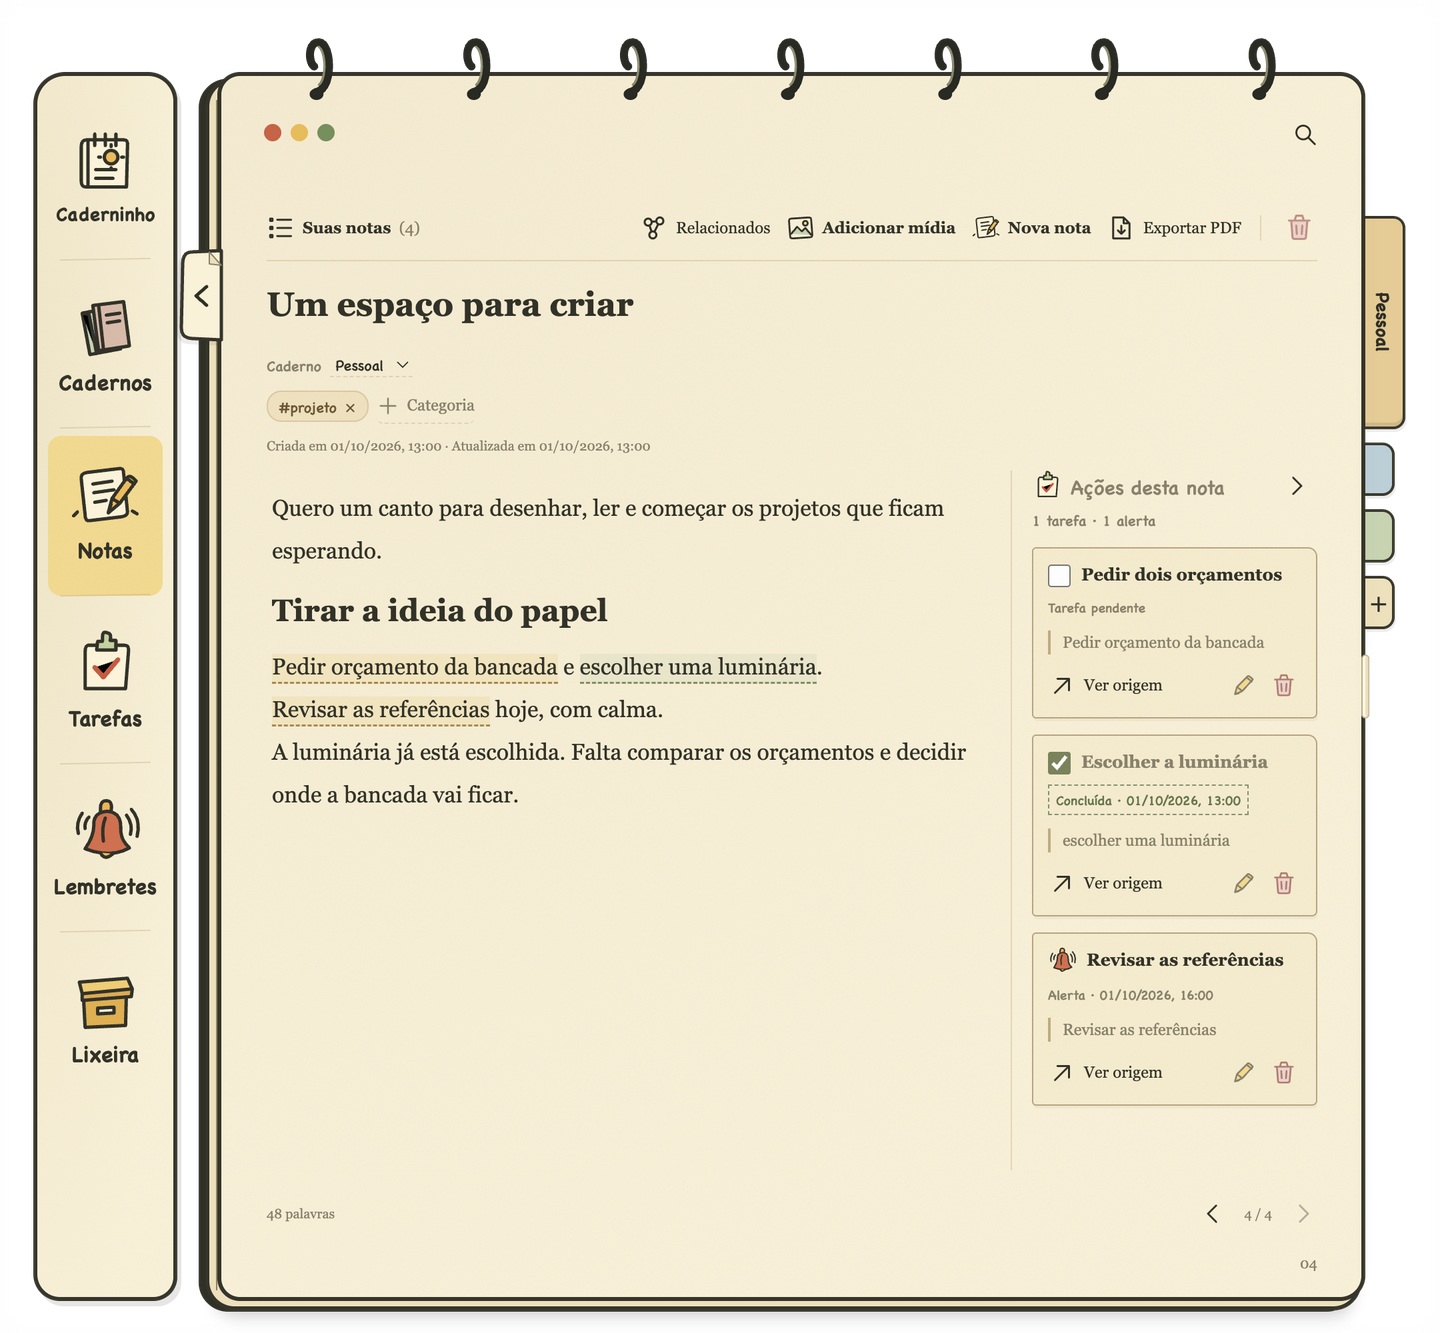
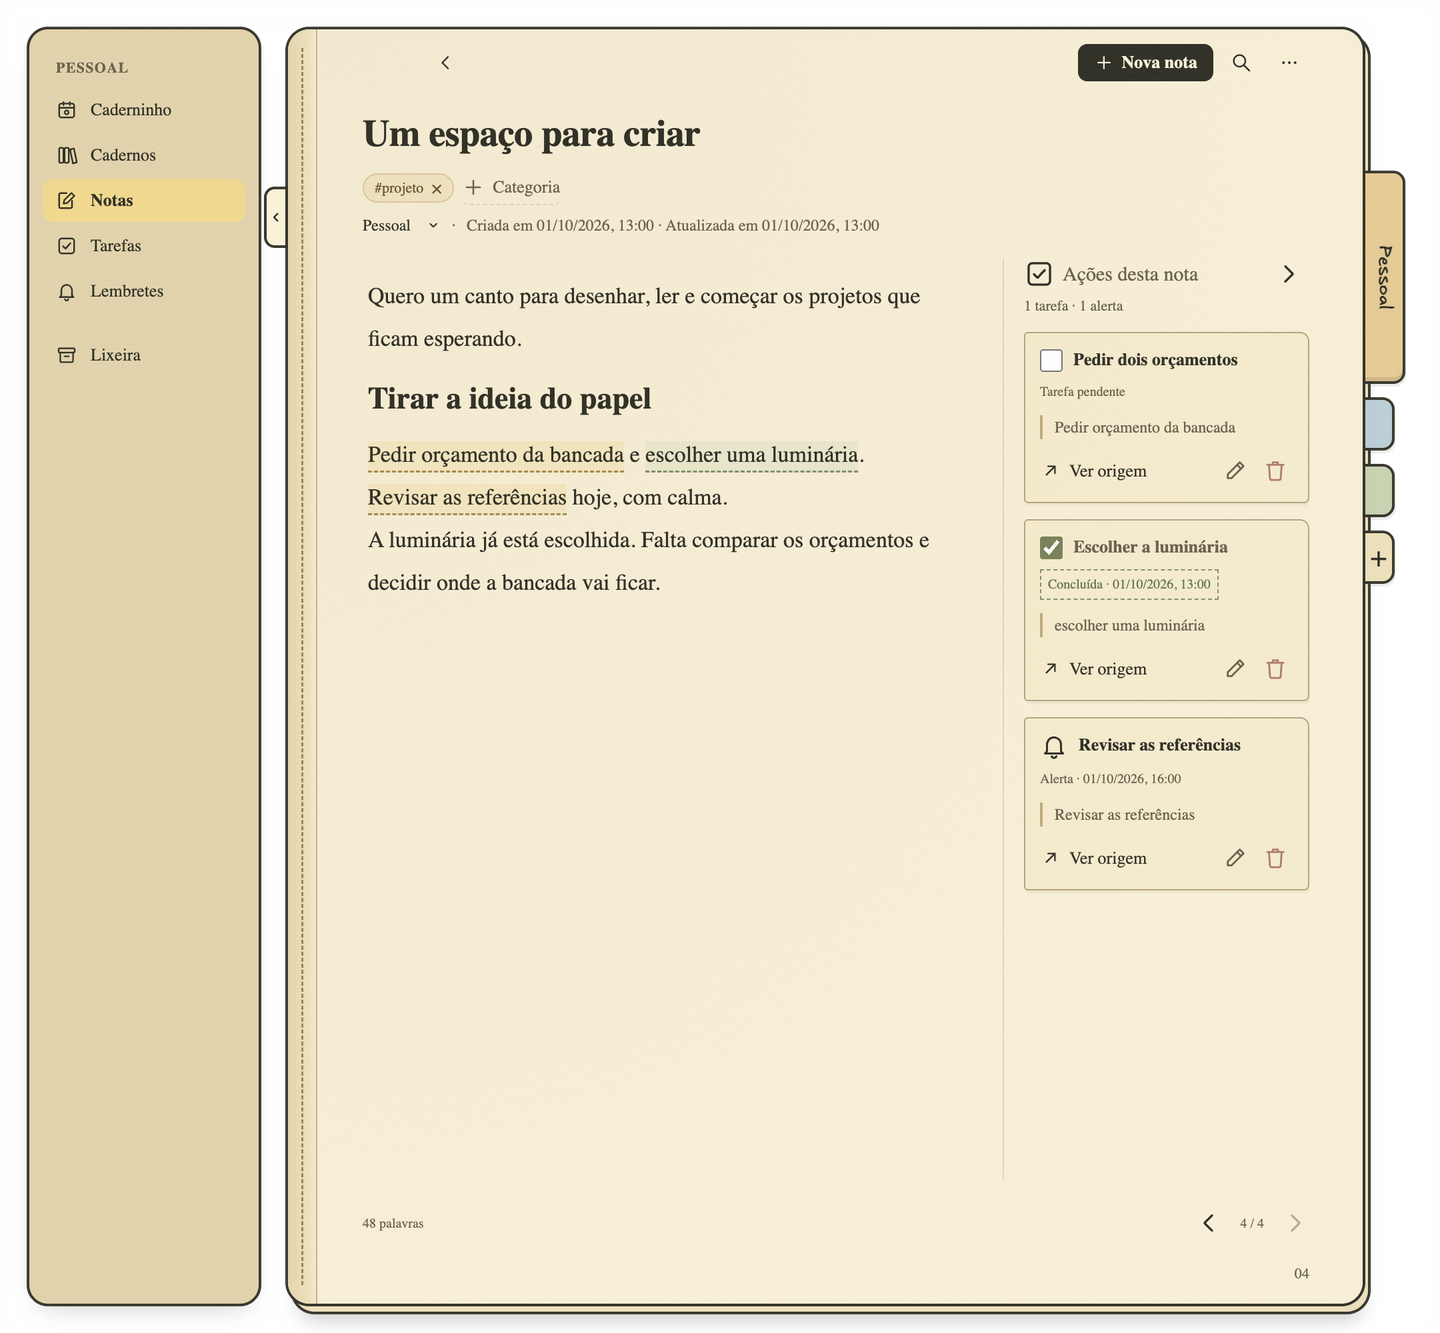
Refresh README screenshots and mark spec 003 waiting approval
The README images show the native Mac paper design, and the daily page
copy reflects that the graph appears only when the latest note has
connections. Spec 003 moves to Waiting Approve; the packaged-app check
remains open.

diff --git a/specs/003-2026-10-04-native-mac-paper-refresh.md b/specs/003-2026-10-04-native-mac-paper-refresh.md
@@ -3,7 +3,7 @@
 - **Specification ID**: 003
 - **Date**: 2026-10-04
 - **Slug**: native-mac-paper-refresh
-- **Status**: In Progress
+- **Status**: Waiting Approve
 - **Owner**: Renderer presentation shell and main-process window chrome
 - **Related Specification**: [001 — Project Structure](001-2026-10-04-project-structure.md)
 
@@ -119,30 +119,30 @@ sequenceDiagram
 
 ## User Stories
 
-- [ ] 1. As a Mac user, I want the real traffic lights in their usual place, so that closing, minimizing and zooming work like every other window.
-- [ ] 2. As a Mac user, I want the green button to toggle the notebook's full-height size, so that it behaves like the top double-click.
-- [ ] 3. As a writer, I want the page to start near the top of the window, so that I see more of my note.
-- [ ] 4. As a writer, I want the notebook to still feel like paper, so that the app keeps its identity without decorative clutter.
-- [ ] 5. As a reader, I want one consistent typeface for text and labels, so that the interface feels calm and serious.
-- [ ] 6. As a reader, I want dates written in correct Portuguese casing ("domingo, 4 de outubro"), so that the app does not look careless.
-- [ ] 7. As a user, I want the sidebar to be a compact list, so that navigation takes less room than my content.
-- [ ] 8. As a user, I want icons that share one style, so that I recognize controls without decoding three visual languages.
-- [ ] 9. As a user, I want popovers, the command palette and notices to sit visibly above the page, so that I know what is temporary.
-- [ ] 10. As a user, I want yellow to mean "selected", so that I always know where I am.
-- [ ] 11. As a user, I want "today" and "selected day" to look different on the calendar, so that I don't confuse them.
-- [ ] 12. As a user, I want one clear primary action per view, so that the toolbar doesn't make me read every button.
-- [ ] 13. As a keyboard user, I want Nova nota, Adicionar mídia, Relacionados, Exportar PDF and Mover para a lixeira in the menu bar with shortcuts, so that I don't have to reach for the page toolbar.
-- [ ] 14. As a user, I want menu items that do not apply to the current view to be disabled, so that I don't trigger actions that do nothing.
-- [ ] 15. As a user, I want the trash action to look destructive only when I aim at it, so that the toolbar doesn't feel alarming.
-- [ ] 16. As a user, I want the Página do dia note preview to use the full width, so that text doesn't wrap word by word.
-- [ ] 17. As a user, I want an empty related graph to take one line, so that it doesn't dominate the page.
-- [ ] 18. As a user, I want "1 lembrete" / "2 lembretes" pluralized correctly, so that the summary reads naturally.
-- [ ] 19. As a user, I want metadata text readable at AA contrast, so that dates and counts aren't strained to read.
-- [ ] 20. As a user, I want disabled destructive actions to be clearly disabled rather than faded pink, so that I understand why I can't use them.
-- [ ] 21. As a user, I want notices that are visible but quiet, so that confirmations don't interrupt writing.
-- [ ] 22. As a user, I want resizing from the book border to keep working, so that removing the grips doesn't remove the ability.
-- [ ] 23. As a user, I want the traffic lights to follow the book when I collapse or expand the sidebar, so that they always sit on the paper.
-- [ ] 24. As a user who prefers reduced motion, I want the refreshed hover and sidebar transitions to respect that setting, so that the interface stays still.
+- [x] 1. As a Mac user, I want the real traffic lights in their usual place, so that closing, minimizing and zooming work like every other window.
+- [x] 2. As a Mac user, I want the green button to toggle the notebook's full-height size, so that it behaves like the top double-click.
+- [x] 3. As a writer, I want the page to start near the top of the window, so that I see more of my note.
+- [x] 4. As a writer, I want the notebook to still feel like paper, so that the app keeps its identity without decorative clutter.
+- [x] 5. As a reader, I want one consistent typeface for text and labels, so that the interface feels calm and serious.
+- [x] 6. As a reader, I want dates written in correct Portuguese casing ("domingo, 4 de outubro"), so that the app does not look careless.
+- [x] 7. As a user, I want the sidebar to be a compact list, so that navigation takes less room than my content.
+- [x] 8. As a user, I want icons that share one style, so that I recognize controls without decoding three visual languages.
+- [x] 9. As a user, I want popovers, the command palette and notices to sit visibly above the page, so that I know what is temporary.
+- [x] 10. As a user, I want yellow to mean "selected", so that I always know where I am.
+- [x] 11. As a user, I want "today" and "selected day" to look different on the calendar, so that I don't confuse them.
+- [x] 12. As a user, I want one clear primary action per view, so that the toolbar doesn't make me read every button.
+- [x] 13. As a keyboard user, I want Nova nota, Adicionar mídia, Relacionados, Exportar PDF and Mover para a lixeira in the menu bar with shortcuts, so that I don't have to reach for the page toolbar.
+- [x] 14. As a user, I want menu items that do not apply to the current view to be disabled, so that I don't trigger actions that do nothing.
+- [x] 15. As a user, I want the trash action to look destructive only when I aim at it, so that the toolbar doesn't feel alarming.
+- [x] 16. As a user, I want the Página do dia note preview to use the full width, so that text doesn't wrap word by word.
+- [x] 17. As a user, I want an empty related graph to take one line, so that it doesn't dominate the page.
+- [x] 18. As a user, I want "1 lembrete" / "2 lembretes" pluralized correctly, so that the summary reads naturally.
+- [x] 19. As a user, I want metadata text readable at AA contrast, so that dates and counts aren't strained to read.
+- [x] 20. As a user, I want disabled destructive actions to be clearly disabled rather than faded pink, so that I understand why I can't use them.
+- [x] 21. As a user, I want notices that are visible but quiet, so that confirmations don't interrupt writing.
+- [x] 22. As a user, I want resizing from the book border to keep working, so that removing the grips doesn't remove the ability.
+- [x] 23. As a user, I want the traffic lights to follow the book when I collapse or expand the sidebar, so that they always sit on the paper.
+- [x] 24. As a user who prefers reduced motion, I want the refreshed hover and sidebar transitions to respect that setting, so that the interface stays still.
 
 ---
 
@@ -241,23 +241,23 @@ Per project rules, screen appearance is validated by the user in the running app
 
 ## Acceptance Criteria
 
-- [ ] 1. No spiral rings are rendered; a left-edge binding is visible on the book.
-- [ ] 2. Native traffic lights are shown over the paper in both sidebar states; drawn traffic lights, bottom handle and corner grip are gone.
-- [ ] 3. The green button and top double-click toggle the same full-height size; border resizing still works.
-- [ ] 4. New York is the rendered typeface for writing, titles and labels; the handwritten accent appears only on the Página do dia date and the notebook tab label.
-- [ ] 5. Dates and months follow Portuguese casing; all count labels pluralize correctly.
-- [ ] 6. All interface icons use the single stroke style; illustrations remain only in empty states.
-- [ ] 7. The sidebar is a source list on the kraft surface with 32px rows.
-- [ ] 8. Palette, popovers, dialogs and toasts use the raised sheet with hairline border.
-- [ ] 9. Yellow appears only on selection states; calendar today and selected day are distinct.
-- [ ] 10. Each view shows one primary action and an overflow; trash is red only on hover.
-- [ ] 11. The "Nota" menu exposes the five note commands with the listed shortcuts and correct enablement.
-- [ ] 12. Página do dia shows a full-width note preview and a one-line empty related state with the new caption.
-- [ ] 13. `--muted` text meets 4.5:1 on paper and paper shade.
-- [ ] 14. Reduced-motion users see no hover wobble or sidebar transition.
+- [x] 1. No spiral rings are rendered; a left-edge binding is visible on the book.
+- [x] 2. Native traffic lights are shown over the paper in both sidebar states; drawn traffic lights, bottom handle and corner grip are gone.
+- [x] 3. The green button and top double-click toggle the same full-height size; border resizing still works.
+- [x] 4. New York is the rendered typeface for writing, titles and labels; the handwritten accent appears only on the Página do dia date and the notebook tab label.
+- [x] 5. Dates and months follow Portuguese casing; all count labels pluralize correctly.
+- [x] 6. All interface icons use the single stroke style; illustrations remain only in empty states.
+- [x] 7. The sidebar is a source list on the kraft surface with 32px rows.
+- [x] 8. Palette, popovers, dialogs and toasts use the raised sheet with hairline border.
+- [x] 9. Yellow appears only on selection states; calendar today and selected day are distinct.
+- [x] 10. Each view shows one primary action and an overflow; trash is red only on hover.
+- [x] 11. The "Nota" menu exposes the five note commands with the listed shortcuts and correct enablement.
+- [x] 12. Página do dia shows a full-width note preview and a one-line empty related state with the new caption.
+- [x] 13. `--muted` text meets 4.5:1 on paper and paper shade.
+- [x] 14. Reduced-motion users see no hover wobble or sidebar transition.
 - [x] 15. `docs/DESIGN.md` and `docs/PRODUCT.md` are updated to describe the new tokens, typography, icon system and surfaces.
-- [ ] 16. All unit, integration, smoke and regression tests pass.
-- [ ] 17. Quality checks (`npm test` on Node 22+, `node --check` on changed files, affected smoke tests) pass with 0 errors.
+- [x] 16. All unit, integration, smoke and regression tests pass.
+- [x] 17. Quality checks (`npm test` on Node 22+, `node --check` on changed files, affected smoke tests) pass with 0 errors.
 - [ ] 18. The packaged app starts and loads New York from the system font files.
 
 ---

diff --git a/README.md b/README.md
@@ -49,9 +49,9 @@ The reference stays with the idea it sparked. And when something to do comes up 
 
 ## The day has its own page
 
-At the top, pick up the latest note in the notebook and explore the ideas linked to it in a graph. Right below, tasks from your lists and from note margins meet reminders and recent pages. You follow your day without opening each project to find out what is still pending.
+At the top, pick up the latest note in the notebook; when it connects to other pages, the linked ideas appear beside it in a graph. Right below, tasks from your lists and from note margins meet reminders and recent pages. You follow your day without opening each project to find out what is still pending.
 
-![Daily page with the latest note and its connection graph at the top, followed by tasks and reminders](docs/images/pagina-do-dia.png)
+![Daily page with the latest note beside its connection graph, followed by tasks and reminders](docs/images/pagina-do-dia.png)
 
 Tomorrow, today's page remains available for reference. The snapshot of that moment's tasks, reminders and notes is kept.
 
